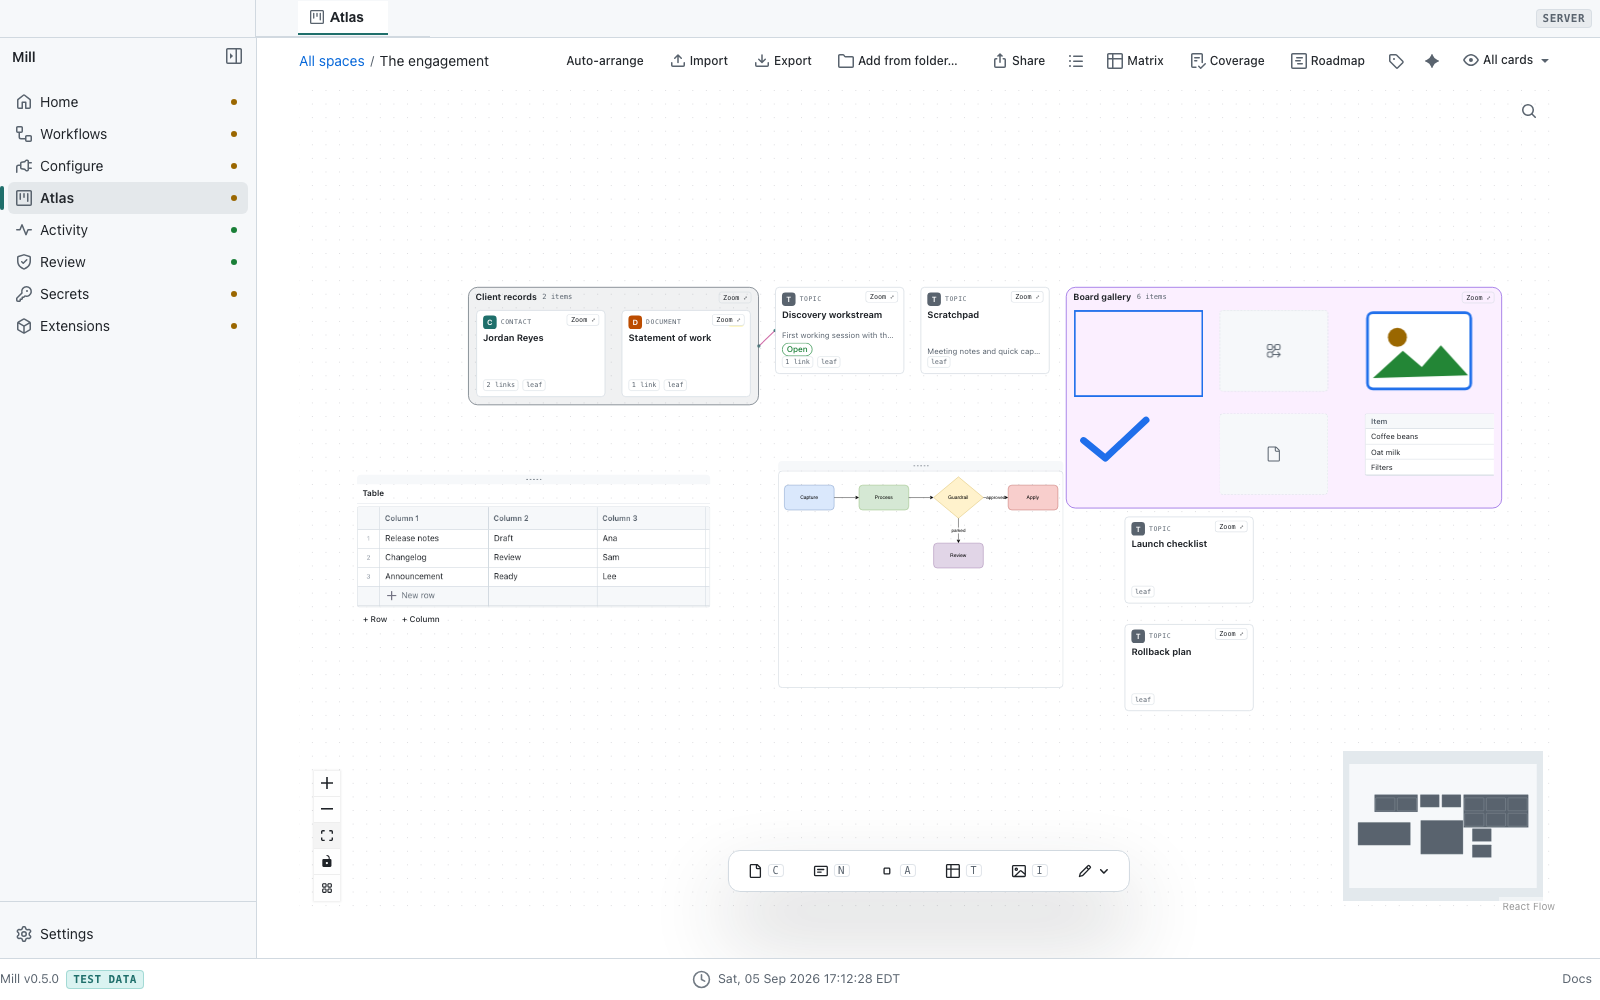
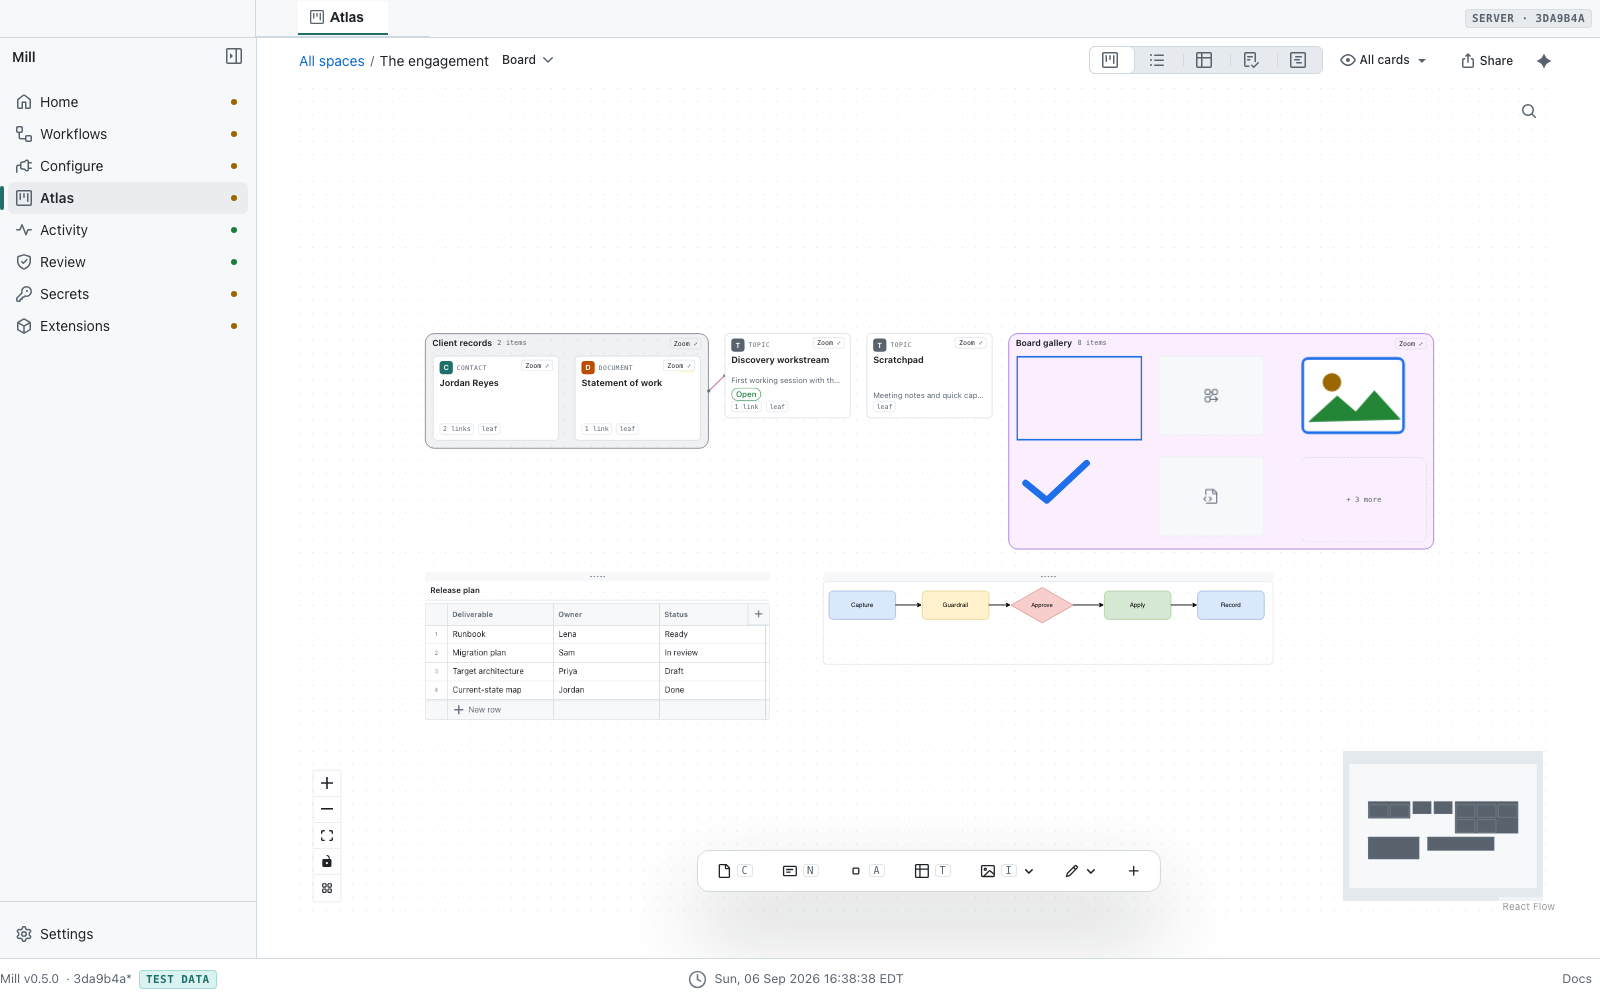
docs: honest doc kinds and a hero that shows today's board chrome (goal 0361 follow-up) (#743)
* docs: kinds stay honest, Start here is the onboarding folder -- What is Mill is an explanation, Install a how-to, and the first nav group is start-here/ (goal 0361 follow-up)

Claude-Session: https://claude.ai/code/session_01F5UoGETNHaQXctzxqJkMTB

* docs: regenerate the inventory after merging main (goal 0361 follow-up)

Claude-Session: https://claude.ai/code/session_01F5UoGETNHaQXctzxqJkMTB

* docs: regen the plugin maturity ledger after merging main (goal 0361 follow-up)

* docs: retake the README hero against the new board chrome (goal 0361 follow-up)

The hero was taken before #726 merged the board chrome -- Board menu,
one view switcher, the fixed creation dock with flyouts and a More
panel. Same README reference, new shot: the landing board in server
mode on a fresh seeded instance (1600x1000, light theme) with cards,
a table object and a diagram object under today's chrome.

---------

diff --git a/frontend/src/views/docsGroups.test.ts b/frontend/src/views/docsGroups.test.ts
@@ -2,8 +2,8 @@ import { describe, expect, it } from 'vitest'
 import { adjacentPages, groupDocsIndex, groupOf, groupTitleKey } from './docsGroups'
 
 const INDEX = [
-  { rel: 'start-here/what-is-mill.md', title: 'What is Mill', note: '', kind: 'tutorial' },
-  { rel: 'start-here/install.md', title: 'Install', note: '', kind: 'tutorial' },
+  { rel: 'start-here/what-is-mill.md', title: 'What is Mill', note: '', kind: 'explanation' },
+  { rel: 'start-here/install.md', title: 'Install', note: '', kind: 'how-to' },
   { rel: 'reference/install-a-plugin.md', title: 'Install a plugin', note: '', kind: 'how-to' },
   { rel: 'concepts/guardrails.md', title: 'Guardrails and effect classes', note: '', kind: 'explanation' },
   { rel: 'reference/steps.md', title: 'Step reference', note: '', kind: 'reference' },
@@ -13,7 +13,7 @@ const INDEX = [
 describe('groupDocsIndex', () => {
   it('buckets entries by kind, not by directory', () => {
     const groups = groupDocsIndex(INDEX)
-    expect(groups.map((g) => g.id)).toEqual(['tutorial', 'how-to', 'explanation', 'reference', 'agents'])
+    expect(groups.map((g) => g.id)).toEqual(['start-here', 'how-to', 'explanation', 'reference', 'agents'])
     expect(groups[1].entries.map((e) => e.rel)).toEqual(['reference/install-a-plugin.md'])
     expect(groups[3].entries.map((e) => e.rel)).toEqual(['reference/steps.md'])
   })
@@ -21,7 +21,13 @@ describe('groupDocsIndex', () => {
   it('keeps the fixed section order whatever order the entries arrive in', () => {
     const reordered = [INDEX[4], INDEX[5], INDEX[0], INDEX[3]]
     const groups = groupDocsIndex(reordered)
-    expect(groups.map((g) => g.id)).toEqual(['tutorial', 'explanation', 'reference', 'agents'])
+    expect(groups.map((g) => g.id)).toEqual(['start-here', 'explanation', 'reference', 'agents'])
+  })
+
+  it('keeps start-here pages together as the onboarding path whatever their kind', () => {
+    const groups = groupDocsIndex(INDEX)
+    expect(groups[0].entries.map((e) => e.rel)).toEqual(['start-here/what-is-mill.md', 'start-here/install.md'])
+    expect(groups.find((g) => g.id === 'explanation')?.entries.map((e) => e.rel)).not.toContain('start-here/what-is-mill.md')
   })
 
   it('keeps agent how-to pages in their own section', () => {
@@ -49,7 +55,8 @@ describe('groupDocsIndex', () => {
 })
 
 describe('groupOf / groupTitleKey', () => {
-  it('names the agents section for agents/ pages and the kind otherwise', () => {
+  it('names the folder sections for start-here/ and agents/ pages and the kind otherwise', () => {
+    expect(groupOf({ rel: 'start-here/install.md', kind: 'how-to' })).toBe('start-here')
     expect(groupOf({ rel: 'agents/diagrams.md', kind: 'how-to' })).toBe('agents')
     expect(groupOf({ rel: 'how-to/x.md', kind: 'how-to' })).toBe('how-to')
   })

diff --git a/frontend/src/views/docsGroups.ts b/frontend/src/views/docsGroups.ts
@@ -1,9 +1,11 @@
 // Pure derivation over DocsIndex: the sidebar's sections come from
 // each page's kind (its front matter's `kind:`, carried on the index
 // entry) in one fixed order -- what the reader is doing, not which
-// directory the file sits in. The agent pages keep a section of their
-// own. The llms.txt generator publishes the same sections in the same
-// order, so the human nav and the AI index can never disagree.
+// directory the file sits in -- with two folder-defined exceptions:
+// start-here/ is the ordered onboarding path whatever each page's own
+// kind, and the agent pages keep a section of their own. The llms.txt
+// generator publishes the same sections in the same order, so the
+// human nav and the AI index can never disagree.
 
 export interface DocsIndexEntry {
   rel: string
@@ -18,22 +20,26 @@ export interface DocsGroup {
   entries: DocsIndexEntry[]
 }
 
+const START_HERE_GROUP = 'start-here'
 const AGENTS_GROUP = 'agents'
 
 // GROUP_ORDER is the fixed section order, keyed by page kind (plus the
 // agents section), each with its views.json locale key.
 const GROUP_ORDER: ReadonlyArray<{ id: string; titleKey: string }> = [
-  { id: 'tutorial', titleKey: 'docs.sections.startHere' },
+  { id: START_HERE_GROUP, titleKey: 'docs.sections.startHere' },
   { id: 'how-to', titleKey: 'docs.sections.howTo' },
   { id: 'explanation', titleKey: 'docs.sections.concepts' },
   { id: 'reference', titleKey: 'docs.sections.reference' },
   { id: AGENTS_GROUP, titleKey: 'docs.sections.agents' },
 ]
 
-// groupOf names the section an entry belongs to: the agents section
-// for anything under agents/, its kind otherwise.
+// groupOf names the section an entry belongs to: the onboarding path
+// for anything under start-here/, the agents section for anything
+// under agents/, its kind otherwise.
 export function groupOf(entry: Pick<DocsIndexEntry, 'rel' | 'kind'>): string {
-  return entry.rel.startsWith('agents/') ? AGENTS_GROUP : entry.kind
+  if (entry.rel.startsWith('start-here/')) return START_HERE_GROUP
+  if (entry.rel.startsWith('agents/')) return AGENTS_GROUP
+  return entry.kind
 }
 
 // groupTitleKey resolves a section id to its locale key. An unknown id

diff --git a/internal/docsgen/docsgen_index.go b/internal/docsgen/docsgen_index.go
@@ -31,21 +31,27 @@ type DocPage struct {
 	Kind             PageKind
 }
 
-// Group is the nav section a page sits in: its kind, except that the
-// agent-facing how-to pages keep their own section.
+// Group is the nav section a page sits in. Two sections are folders:
+// start-here/ is the ordered onboarding path whatever each page's own
+// kind, and agents/ keeps the agent-facing how-to pages together.
+// Every other section is the page's kind.
 func (p DocPage) Group() string {
-	if strings.HasPrefix(p.Rel, "agents/") {
+	switch {
+	case strings.HasPrefix(p.Rel, "start-here/"):
+		return "start-here"
+	case strings.HasPrefix(p.Rel, "agents/"):
 		return "agents"
 	}
 	return string(p.Kind)
 }
 
 // GroupOrder is the fixed section order the nav and llms.txt share:
-// tutorials, how-to, explanation, reference, then the agent pages.
+// the onboarding path, how-to, explanation, reference, then the agent
+// pages.
 var GroupOrder = []struct {
 	ID, Title string
 }{
-	{string(KindTutorial), "Start here"},
+	{"start-here", "Start here"},
 	{string(KindHowTo), "How-to"},
 	{string(KindExplanation), "Concepts"},
 	{string(KindReference), "Reference"},
@@ -56,8 +62,8 @@ var GroupOrder = []struct {
 // GroupOrder lists the sections.
 func PageIndex() []DocPage {
 	return []DocPage{
-		{"start-here/what-is-mill.md", "What is Mill", "the product in three ideas", KindTutorial},
-		{"start-here/install.md", "Install", "release install, source build, where data lives", KindTutorial},
+		{"start-here/what-is-mill.md", "What is Mill", "the product in three ideas", KindExplanation},
+		{"start-here/install.md", "Install", "release install, source build, where data lives", KindHowTo},
 		{"start-here/first-workflow.md", "Your first workflow", "run the seeded example, then rebuild it", KindTutorial},
 		{"start-here/first-board.md", "Your first board", "place a card, a table and a diagram on a board, line them up, undo", KindTutorial},
 		{"how-to/store-and-reference-a-secret.md", "Store and reference a secret", "put a value in the vault and pick it wherever a step needs it", KindHowTo},

diff --git a/internal/docsgen/docsgen_index_test.go b/internal/docsgen/docsgen_index_test.go
@@ -1,0 +1,36 @@
+package docsgen
+
+import "testing"
+
+// Sections are the page's kind, except the two folder-defined ones:
+// start-here/ is the onboarding path whatever each page's kind, and
+// agents/ keeps the agent how-to pages together.
+func TestDocPage_Group(t *testing.T) {
+	cases := []struct {
+		page DocPage
+		want string
+	}{
+		{DocPage{Rel: "start-here/what-is-mill.md", Kind: KindExplanation}, "start-here"},
+		{DocPage{Rel: "start-here/install.md", Kind: KindHowTo}, "start-here"},
+		{DocPage{Rel: "agents/connect-mcp.md", Kind: KindHowTo}, "agents"},
+		{DocPage{Rel: "reference/install-a-plugin.md", Kind: KindHowTo}, "how-to"},
+		{DocPage{Rel: "trust/data-and-safety.md", Kind: KindExplanation}, "explanation"},
+		{DocPage{Rel: "reference/steps.md", Kind: KindReference}, "reference"},
+	}
+	for _, c := range cases {
+		if got := c.page.Group(); got != c.want {
+			t.Errorf("%s: group = %q, want %q", c.page.Rel, got, c.want)
+		}
+	}
+	for _, p := range PageIndex() {
+		known := false
+		for _, g := range GroupOrder {
+			if g.ID == p.Group() {
+				known = true
+			}
+		}
+		if !known {
+			t.Errorf("%s: group %q is not in GroupOrder", p.Rel, p.Group())
+		}
+	}
+}

diff --git a/userdocs/start-here/what-is-mill.md b/userdocs/start-here/what-is-mill.md
@@ -1,5 +1,5 @@
 ---
-kind: tutorial
+kind: explanation
 ---
 
 # What is Mill

diff --git a/userdocs/start-here/install.md b/userdocs/start-here/install.md
@@ -1,5 +1,5 @@
 ---
-kind: tutorial
+kind: how-to
 ---
 
 # Install
